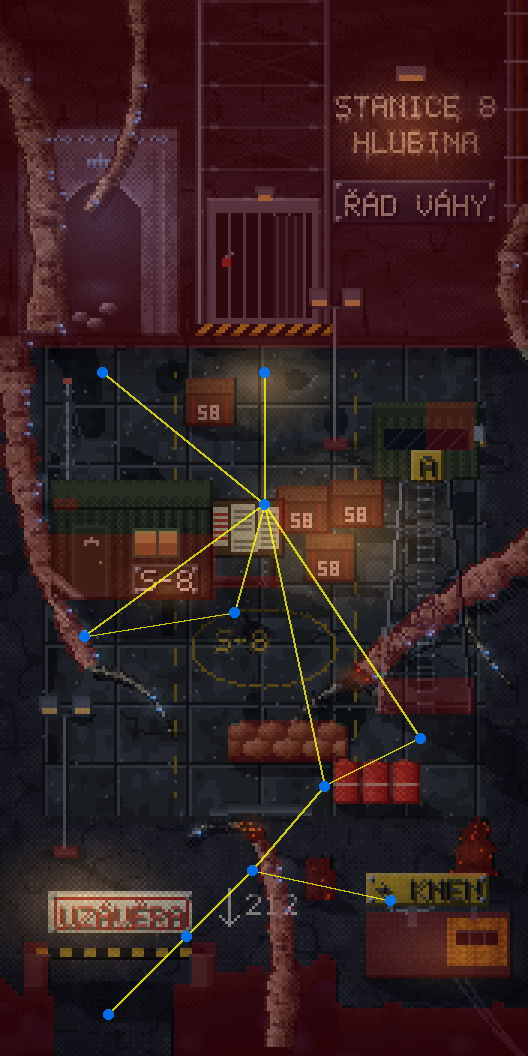
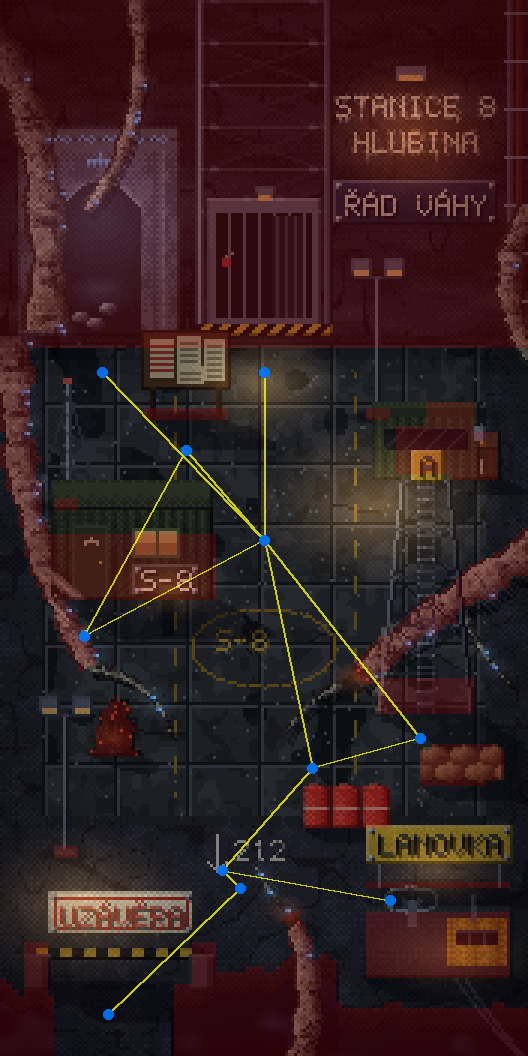
Stanice 8: volný střed, křída mimo kořen, čitelná cedule lanovky
Claude-Session: https://claude.ai/code/session_01DEnSwqHYg5ekKXqGuApBa4

diff --git a/app/src/main/java/cz/uhk/macroflow/pokemon/cave/RootCamp.kt b/app/src/main/java/cz/uhk/macroflow/pokemon/cave/RootCamp.kt
@@ -21,10 +21,10 @@ object RootCamp {
     val MAP = CaveMap(
         artW = 176, artH = 352,
         nodes = listOf(
-            CaveNode(CAGE_NODE, 88, 124), CaveNode("kt_stred", 88, 168), CaveNode("kt_ruina", 34, 124),
-            CaveNode("kt_radio", 28, 212), CaveNode("kt_tabule", 78, 204), CaveNode("kt_vez", 140, 246),
-            CaveNode("kt_hlidka", 108, 262), CaveNode("kt_dole", 84, 290), CaveNode("kt_lanovka", 130, 300),
-            CaveNode("kt_krida", 62, 312), CaveNode(DOWN_NODE, 36, 338)
+            CaveNode(CAGE_NODE, 88, 124), CaveNode("kt_stred", 88, 180), CaveNode("kt_ruina", 34, 124),
+            CaveNode("kt_radio", 28, 212), CaveNode("kt_tabule", 62, 150), CaveNode("kt_vez", 140, 246),
+            CaveNode("kt_hlidka", 104, 256), CaveNode("kt_dole", 74, 290), CaveNode("kt_lanovka", 130, 300),
+            CaveNode("kt_krida", 80, 296), CaveNode(DOWN_NODE, 36, 338)
         ),
         edges = listOf(CAGE_NODE to "kt_stred", "kt_stred" to "kt_ruina", "kt_stred" to "kt_radio", "kt_stred" to "kt_tabule",
             "kt_radio" to "kt_tabule", "kt_stred" to "kt_vez", "kt_vez" to "kt_hlidka", "kt_stred" to "kt_hlidka",
@@ -38,9 +38,9 @@ object RootCamp {
         isCave = false,
         tapAreas = mapOf(
             CAGE_NODE to Triple(88, 88, 22), "kt_ruina" to Triple(33, 76, 22), "kt_radio" to Triple(36, 180, 22),
-            "kt_tabule" to Triple(78, 182, 12), "kt_vez" to Triple(142, 168, 18), "kt_hlidka" to Triple(124, 260, 16),
-            "kt_lanovka" to Triple(150, 312, 18), "kt_krida" to Triple(74, 306, 9), DOWN_NODE to Triple(40, 318, 16),
-            "kt_stred" to Triple(88, 214, 14)
+            "kt_tabule" to Triple(62, 128, 13), "kt_vez" to Triple(142, 168, 18), "kt_hlidka" to Triple(118, 268, 14),
+            "kt_lanovka" to Triple(146, 300, 20), "kt_krida" to Triple(82, 284, 9), DOWN_NODE to Triple(40, 318, 16),
+            "kt_stred" to Triple(88, 216, 14)
         )
     )
 
@@ -59,7 +59,7 @@ object RootCamp {
             "Rozpis služeb: PÁLIT KAŽDÝCH 6 HODIN. Poslední podpis je před 43 dny. Kořeny od té doby dorostly až k sudům.",
         "kt_lanovka" to "🚡 Spodní stanice lanovky ke kmeni. Gondola visí u rampy s rozbitým okénkem, lana mizí přes okraj do tmy.\n" +
             "Cedule: LANOVKA → KMEN · MIMO PROVOZ · DALŠÍ JÍZDA: ZATÍM NESCHVÁLENO.",
-        "kt_krida" to "✏ Na patce závory křídou šipka dolů a číslo 212. Pod tím Hunfreyho písmo:\n" +
+        "kt_krida" to "✏ Na skále u závory křídou šipka dolů a číslo 212. Pod tím Hunfreyho písmo:\n" +
             "„Byl jsem až tady. Dál ne – dál se zapomíná rychleji. Vrať se vždycky nahoru spát.“",
         DOWN_NODE to "🚧 Závora UZÁVĚRA. Za ní se cesta stáčí po římse dolů do mlhy – na Svah bezejmenných.\n" +
             "Na rameni visí fotka výpravy 7: devět lidí v kombinézách Řádu se usmívá. Na zadní straně tužkou: „Nepočítejte je.“\n" +

diff --git a/app/src/main/java/cz/uhk/macroflow/pokemon/cave/InteriorFxView.kt b/app/src/main/java/cz/uhk/macroflow/pokemon/cave/InteriorFxView.kt
@@ -1423,11 +1423,11 @@ class InteriorFxView(context: Context, private val scale: Int, private val fx: I
         /** Zóna 3, Stanice 8: sodíkové reflektory blikají, na stožáru bliká rudá lampička, shora padá teplý popel,
          *  spálené kořeny doutnají, modré houby a znaky ruiny dýchají, z propasti stoupá mlha. */
         val ROOT_CAMP = InteriorFx(
-            lamps = listOf(FxLamp(112, 178, 40, 26, FxBox(103, 100, 120, 101)), FxLamp(22, 302, 36, 22, FxBox(13, 236, 30, 237)),
+            lamps = listOf(FxLamp(126, 168, 40, 26, FxBox(117, 90, 134, 91)), FxLamp(22, 302, 36, 22, FxBox(13, 236, 30, 237)),
                 FxLamp(88, 128, 24, 14, FxBox(85, 65, 90, 66))),
             blinks = listOf(FxBlink(FxBox(21, 126, 23, 127), 0xFFFF4A3A.toInt())),
             ash = listOf(FxBox(10, 100, 166, 330)),
-            embers = listOf(FxBox(112, 220, 124, 232), FxBox(78, 270, 90, 282), FxBox(150, 274, 166, 292)),
+            embers = listOf(FxBox(112, 220, 124, 232), FxBox(90, 298, 102, 310), FxBox(30, 238, 46, 254)),
             fog = listOf(FxBox(0, 326, 176, 352), FxBox(0, 0, 176, 30)),
             fogColor = 0x3A4A70,
             motes = listOf(FxBox(0, 20, 176, 340)),
@@ -1435,7 +1435,7 @@ class InteriorFxView(context: Context, private val scale: Int, private val fx: I
             glows = listOf(FxGlow(33, 46, 22, 6, 0x7EC0FF, 4.5f), FxGlow(33, 78, 12, 14, 0x4A80C0, 6f),
                 FxGlow(79, 273, 3, 3, 0x8AC8FF, 2.1f), FxGlow(51, 232, 3, 3, 0x8AC8FF, 2.7f), FxGlow(28, 180, 3, 3, 0x8AC8FF, 3.3f),
                 FxGlow(159, 214, 3, 3, 0x8AC8FF, 1.9f), FxGlow(14, 140, 3, 3, 0x8AC8FF, 3.9f), FxGlow(136, 215, 3, 3, 0x8AC8FF, 2.4f),
-                FxGlow(97, 303, 3, 3, 0x8AC8FF, 3.1f), FxGlow(56, 196, 10, 6, 0xFFC870, 5f))
+                FxGlow(96, 303, 3, 3, 0x8AC8FF, 3.1f), FxGlow(56, 196, 10, 6, 0xFFC870, 5f))
         )
 
         val ABYSS = InteriorFx(

diff --git a/tools/mapgen/gen_station8.py b/tools/mapgen/gen_station8.py
@@ -24,9 +24,9 @@ import order as O, lumen as LU, terrain as T, signs as SG  # noqa: E402
 
 AW, AH, WALL_H = 176, 352, 112
 NODES = {
-    "kt_klec": (88, 124), "kt_stred": (88, 168), "kt_ruina": (34, 124), "kt_radio": (28, 212), "kt_tabule": (78, 204),
-    "kt_vez": (140, 246), "kt_hlidka": (108, 262), "kt_dole": (84, 290), "kt_lanovka": (130, 300),
-    "kt_krida": (62, 312), "kt_sestup": (36, 338),
+    "kt_klec": (88, 124), "kt_stred": (88, 180), "kt_ruina": (34, 124), "kt_radio": (28, 212), "kt_tabule": (62, 150),
+    "kt_vez": (140, 246), "kt_hlidka": (104, 256), "kt_dole": (74, 290), "kt_lanovka": (130, 300),
+    "kt_krida": (80, 296), "kt_sestup": (36, 338),
 }
 EDGES = [("kt_klec", "kt_stred"), ("kt_stred", "kt_ruina"), ("kt_stred", "kt_radio"), ("kt_stred", "kt_tabule"),
          ("kt_radio", "kt_tabule"), ("kt_stred", "kt_vez"), ("kt_vez", "kt_hlidka"), ("kt_stred", "kt_hlidka"),
@@ -79,18 +79,22 @@ for a in range(0, 360, 3):
     img[y, x] = YELLOW[1]
 SG.painted(img, 72, 210, "S-8", YELLOW[2], scale=1, seed=3, drips=False)
 
+# Hunfreyho křída na skále u závory: šipka dolů a 212 (kresba na zemi – kreslí se před kořeny)
+CH = c(0xEAE6DA)
+for y in range(278, 290):
+    img[y, 72] = CH
+for k in range(4):
+    img[290 - k, 72 - k] = CH; img[290 - k, 72 + k] = CH
+SG.painted(img, 78, 280, "212", CH, seed=6, drips=False, spray=False, wear=0.2)
+
 # ── kořeny (z-buffer: co leží za nimi, je nepřekreslí) ──────────────────────
 root(sc, bez((4, WALL_H - 4), (2, 176), (30, 222)), 12, 6, lift=0.6, d=0.4)         # ze skály kolem rohu ubikace
 root(sc, bez((180, 182), (150, 196), (118, 226)), 13, 7, lift=0.8, d=0.42)          # zprava pod pozorovatelnou
-root(sc, bez((92, 348), (98, 300), (84, 276)), 10, 5, lift=0.7, d=0.45)            # z propasti zvedá beton
+root(sc, bez((100, 352), (106, 322), (96, 304)), 9, 5, lift=0.7, d=0.45)           # z propasti přes okraj římsy
 for (p0, p1, p2, w) in (((30, 222), (52, 226), (56, 244), 3), ((118, 226), (100, 232), (94, 246), 2.5),
-                        ((84, 276), (70, 270), (60, 280), 2.5), ((150, 196), (160, 220), (170, 228), 3)):
+                        ((96, 304), (88, 296), (84, 286), 2), ((150, 196), (160, 220), (170, 228), 3)):
     root(sc, bez(p0, p1, p2, 30), w, 1.2, solid=False, d=0.5)
-for x in range(70, 104):                                                  # zvednutá deska betonu nad kořenem
-    for k in range(3):
-        img[270 - k + int(abs(x - 88) * 0.08), x] = P.CONC[5 - k]
-    img[273 + int(abs(x - 88) * 0.08), x] = P.CONC[0]
-for (x, y) in ((118, 226), (84, 276)):                                    # spálené konce (hlídka)
+for (x, y) in ((118, 226), (96, 304)):                                    # spálené konce (hlídka)
     for yy in range(y - 5, y + 6):
         for xx in range(x - 6, x + 7):
             if (xx - x) ** 2 + ((yy - y) * 1.3) ** 2 < 30 and sc.depth[yy, xx]:
@@ -101,18 +105,22 @@ for (x, y) in ((118, 226), (84, 276)):                                    # spá
 # ── stavby a předměty ───────────────────────────────────────────────────────
 sc.place(O.radio_mast(44), 22, 170, foot=(10, 4))
 sc.place(O.barrack(56, 40), 44, 200, foot=(56, 22))
-sc.place(O.notice_board(), 80, 196, foot=(28, 5))
-for (x, y, sd) in ((101, 178, 1), (119, 176, 2), (110, 194, 3), (150, 150, 4), (70, 142, 5)):
+sc.place(O.notice_board(), 62, 140, foot=(28, 5))
+for (x, y, sd) in ((150, 150, 4), (158, 160, 1), (140, 158, 2)):
     sc.place(O.army_crate(sd), x, y, pad=0)
-sc.place(O.flood_mast(56), 112, 150, foot=(10, 4))
+sc.place(O.flood_mast(56), 126, 140, foot=(10, 4))
 sc.place(O.obs_tower(40, 104), 142, 238, foot=(34, 12))
-sc.place(O.sandbags(40, 2), 96, 254, pad=0)
-sc.place(O.fuel_drums(3), 126, 268, pad=0)
-sc.place(O.burnt_stump(18, 22, 1), 158, 292, pad=0)
-sc.place(O.burnt_stump(14, 16, 2), 106, 300, pad=0)
+sc.place(O.fuel_drums(3), 116, 276, pad=0)
+sc.place(O.sandbags(28, 2), 154, 262, pad=0)
+sc.place(O.burnt_stump(18, 22, 1), 38, 252, pad=0)
 sc.place(O.flood_mast(56), 22, 286, foot=(10, 4))
+sign = SG.plate("LANOVKA", c(0x141414), c(0xE2BA34), seed=5, pad=3, wear=0.0)
+post = O.Spr(sign.w, sign.h + 8)
+post.a[:sign.h] = sign.a
+for y in range(sign.h, sign.h + 8):
+    post.px(4, y, O.STEEL[2]); post.px(sign.w - 5, y, O.STEEL[2])
+sc.place(post, 146, 296, foot=(sign.w, 3))
 cab = O.cable_station(50, 36)
-pl = SG.plate("> KMEN", c(0x1A1A1A), c(0xD8B030), seed=5, pad=2)
 sc.place(cab, 146, 326, foot=(50, 22))
 sc.place(O.barrier(64), 40, 330, collide=False)
 block[314:330, 8:17] = True; block[314:330, 63:72] = True                # patky závory
@@ -123,14 +131,6 @@ for (x0, y0) in ((136, 302), (140, 300)):
         X, Y = int(x0 + (182 - x0) * t), int(y0 + (360 - y0) * t + math.sin(t * math.pi) * 5)
         if 0 <= X < AW and 0 <= Y < AH:
             img[Y, X] = STEEL[2] if t < 0.5 else STEEL[1]
-
-# Hunfreyho křída na betonu u závory: šipka dolů a 212
-CH = c(0xEAE6DA)
-for y in range(296, 308):
-    img[y, 76] = CH
-for k in range(4):
-    img[308 - k, 76 - k] = CH; img[308 - k, 76 + k] = CH
-SG.painted(img, 82, 298, "212", CH, seed=6, drips=False, spray=False, wear=0.25)
 
 # ── stíny, zadní stěna, sprity ──────────────────────────────────────────────
 floor = np.zeros((AH, AW), bool)
@@ -159,11 +159,6 @@ root(sc, bez((44, -4), (52, 40), (28, 70)), 6, 3, solid=False, d=0.32)
 root(sc, bez((176, 70), (160, 92), (178, 120)), 7, 7, solid=False, d=0.3)
 sc.zbuf[:WALL_H] = -1e9                                                   # stěna je za vším na podlaze
 
-# terminál lanovky dostane ceduli až teď (je to sprite, kreslí se se z-testem)
-for yy in range(pl.h):
-    for xx in range(pl.w):
-        if pl.a[yy, xx, 3]:
-            cab.a[1 + yy, 1 + xx] = pl.a[yy, xx]
 sc.draw_sprites()
 
 # modré houby na hranách kořenů
@@ -176,9 +171,9 @@ for _ in range(6000):
 
 # ── světlo a export ─────────────────────────────────────────────────────────
 sc.light(
-    warm=[(88, 128, 30, 20, 0.9), (112, 178, 46, 32, 1.0), (26, 302, 42, 28, 1.0), (56, 196, 22, 12, 0.7),
+    warm=[(88, 128, 30, 20, 0.9), (126, 168, 44, 30, 1.0), (26, 302, 42, 28, 1.0), (56, 196, 22, 12, 0.7), (146, 290, 26, 14, 0.8),
           (138, 44, 34, 28, 0.9), (150, 318, 30, 16, 0.6)],
-    ember=[(118, 226, 10, 7, 0.8), (84, 276, 9, 6, 0.7), (158, 284, 9, 6, 0.6)],
+    ember=[(118, 226, 10, 7, 0.8), (96, 304, 9, 6, 0.7), (38, 246, 9, 6, 0.6)],
     cold=[(33, 72, 40, 36, 1.0), (33, 96, 18, 10, 0.8)] + [(x, y, 6, 5, 0.6) for (x, y) in fungi])
 sc.export("root_camp", "gen_station8.py")
 print("FUNGI", fungi[:12])
